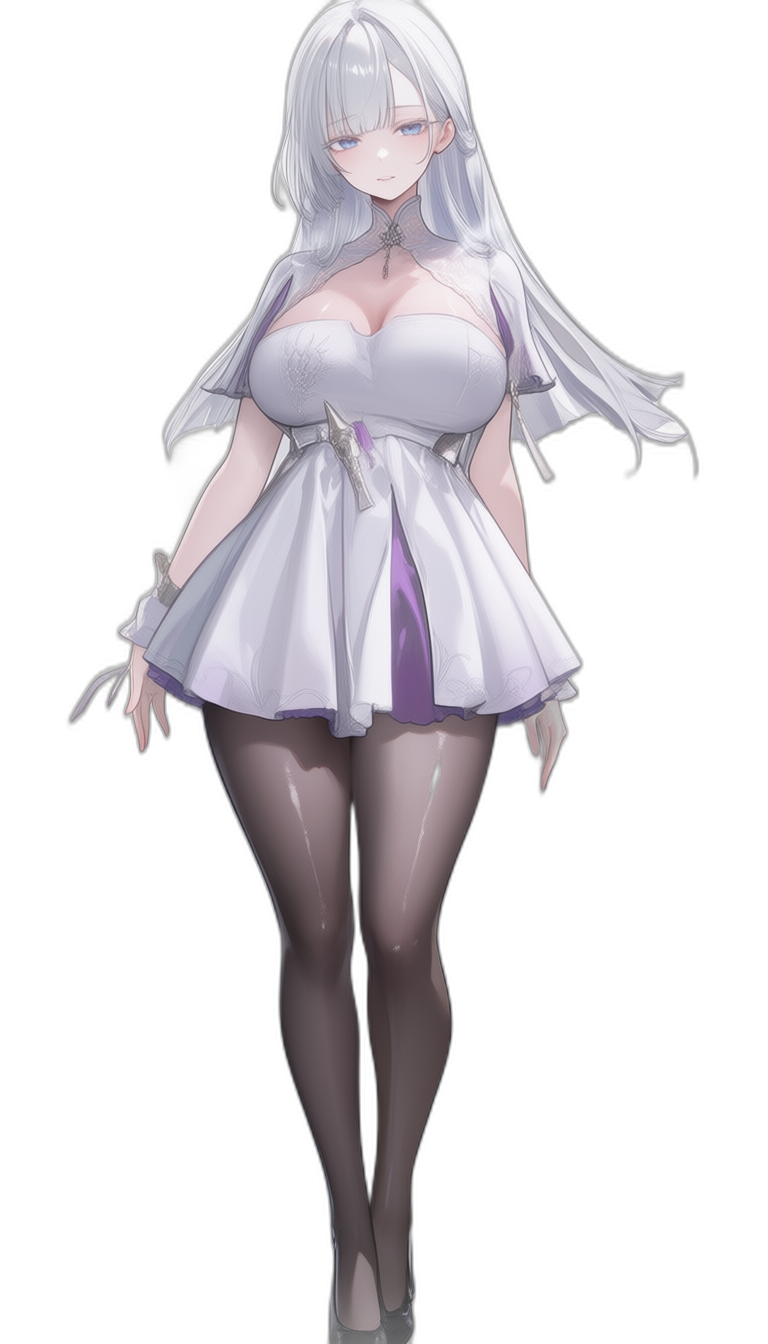
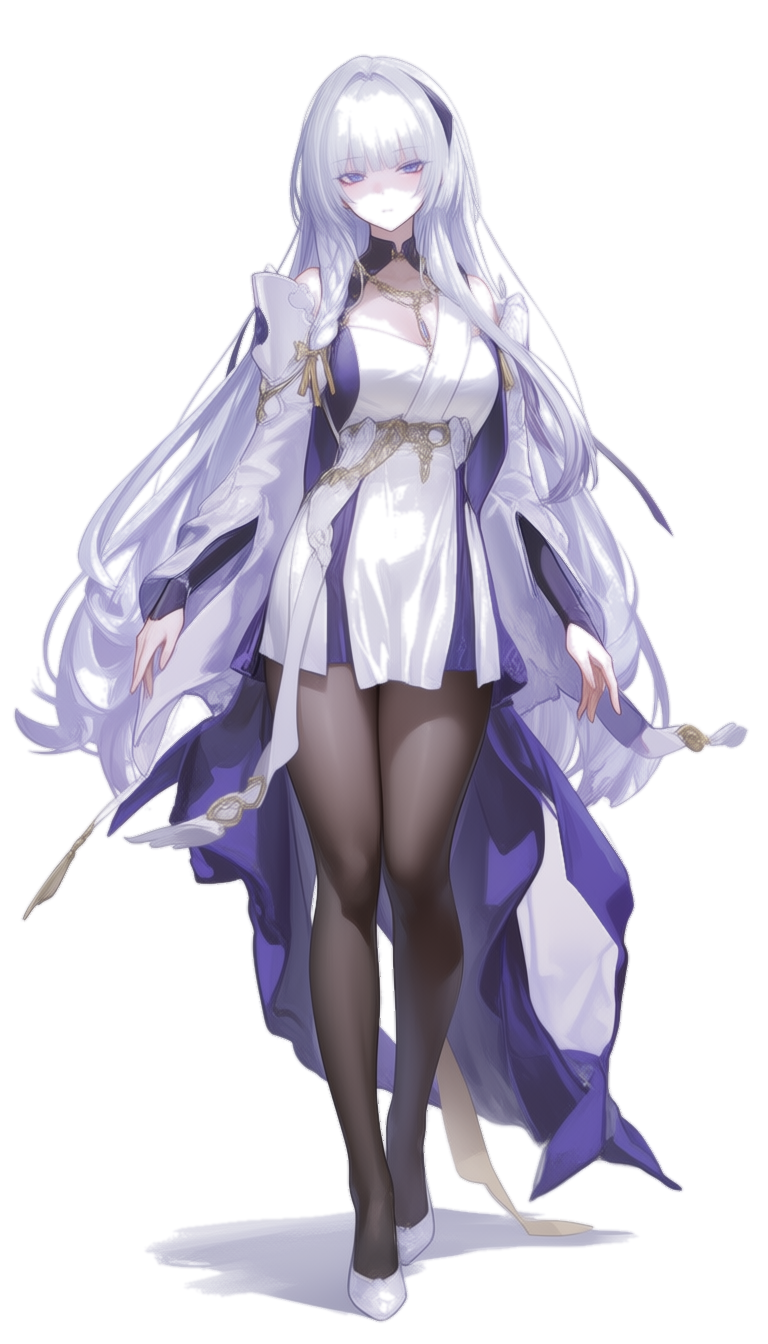
fix: 林仪立绘重画（新姿态+PIL抠图）

diff --git a/scripts/gen_fullbody.py b/scripts/gen_fullbody.py
@@ -39,7 +39,7 @@ PREFIX = "masterpiece, best quality, score_7, safe, year 2026, newest, absurdres
 # 2026-08-16 用户确认的最终外观描述（勿改，勿回退到草案表）
 CHARACTER_PROMPTS = {
     "baiyue": "1girl, solo, standing, full body, front view, green hair, green eyes, sailor collar school uniform, short pleated skirt, white over-knee socks, cheeky confident smile, young girl, simple white background, plain background, character illustration, soft brush texture",
-    "linyi": "1girl, solo, standing, full body, front view, white hair, long hair, blue eyes, white and purple dress, black pantyhose, mature, cold elegant expression, simple white background, plain background, character illustration, soft brush texture",
+    "linyi": "1girl, solo, standing, full body, front view, white hair, long hair, blue eyes, white and purple dress, black pantyhose, mature, cold elegant expression, standing upright, arms at sides, relaxed natural pose, simple white background, plain background, character illustration, soft brush texture",
     "liuyue": "1girl, solo, standing, full body, front view, long pink hair, ahoge, black hair accessory bow, pink eyes, delicate face, soft fair skin, white long-sleeve shirt, big black bow tie, black suspender skirt, lace decorations, black over-the-knee socks, lace on over-the-knee socks, shy expression, standing upright, arms at sides, relaxed natural pose, simple white background, plain background, character illustration, soft brush texture",
     "suyun": "1girl, solo, standing, full body, front view, rainbow-colored long hair tied back, golden eyes, white dress, light apron, mature gentle smile, soft warm expression, simple white background, plain background, character illustration, soft brush texture",
     "siren": "1girl, solo, standing, full body, front view, gray twin-tails with blue-purple gradient tips, purple eyes, pointed elf ears, silver tiara, small arm fins and head fins, white sheer camisole top, pearl and seashell accessories, mermaid tail, delicate fragile smile, simple white background, plain background, character illustration, soft brush texture",
